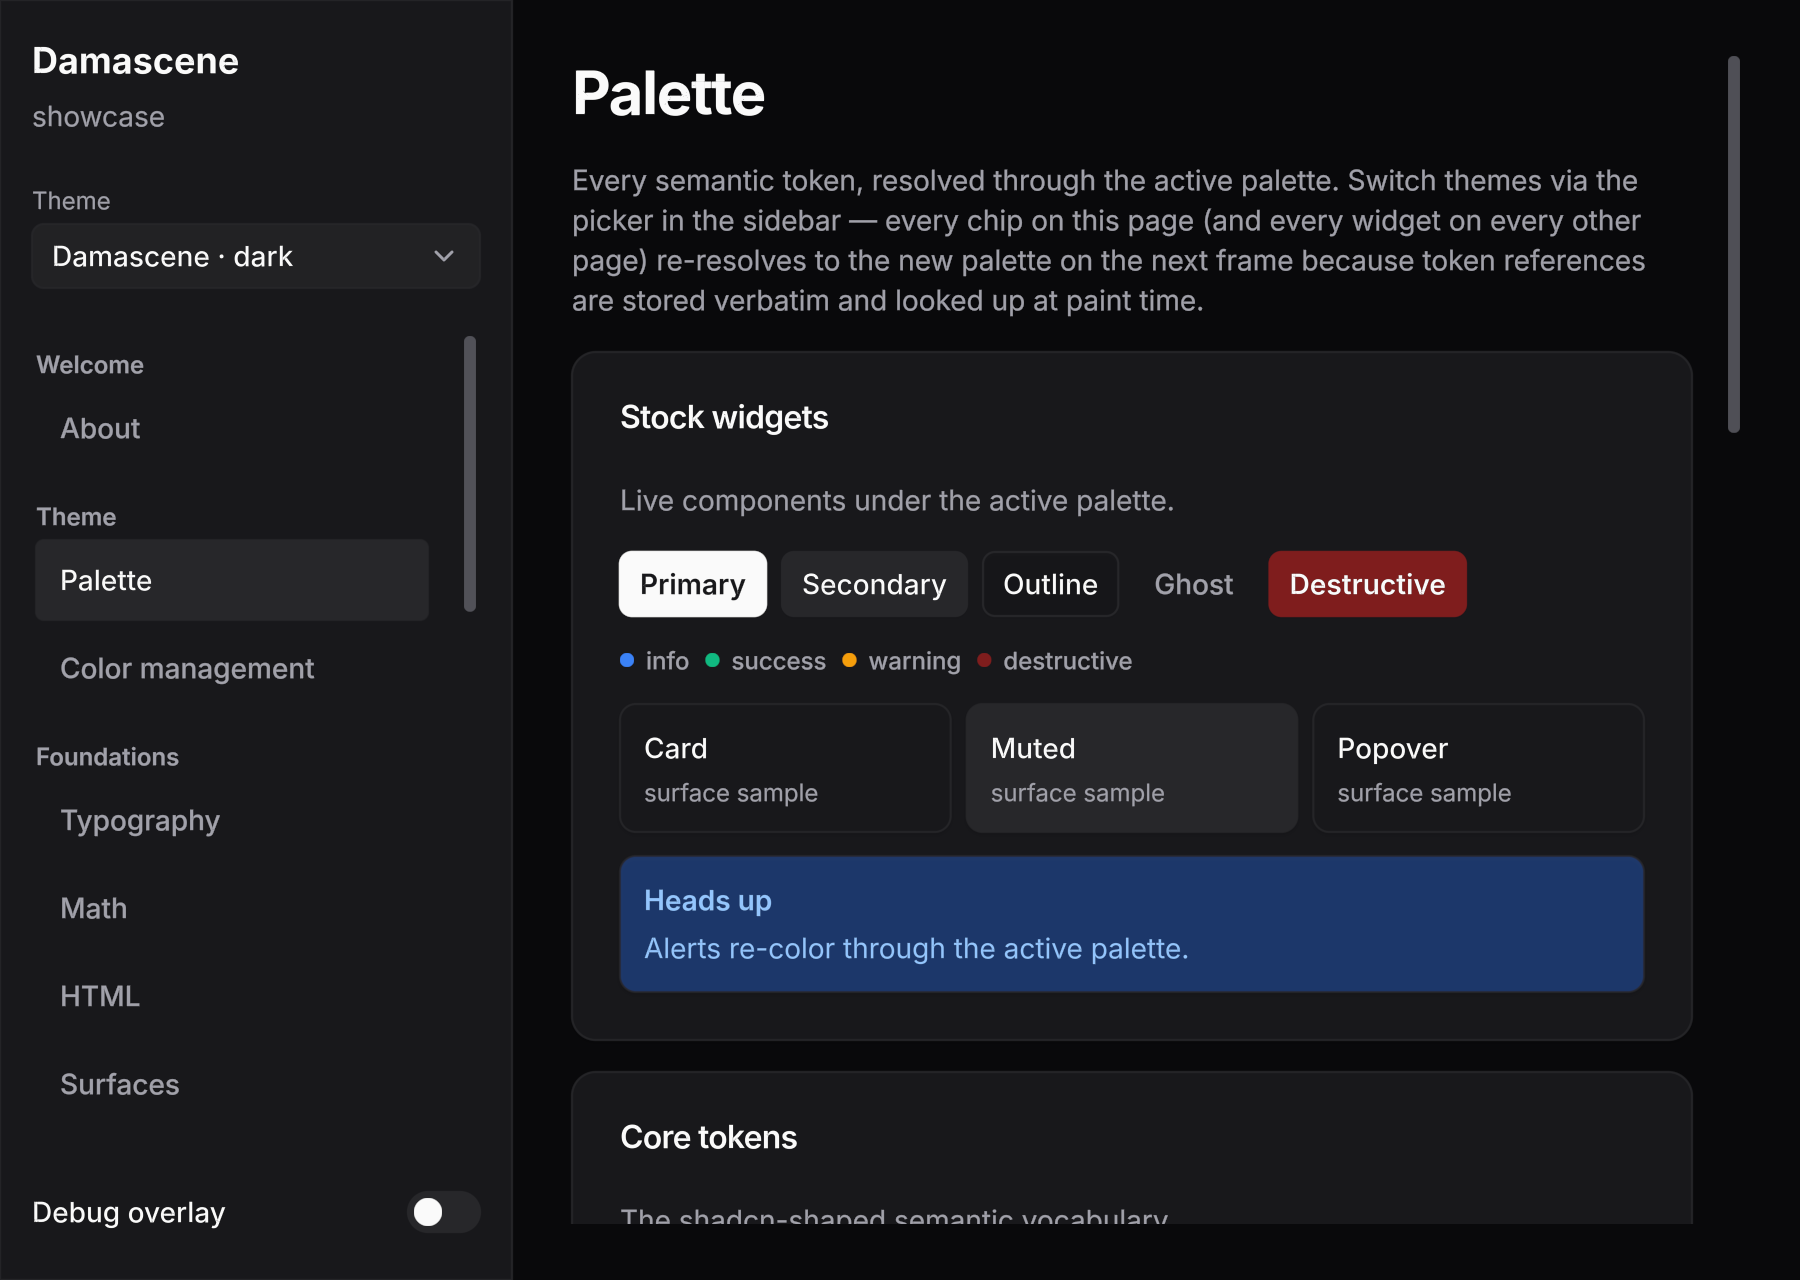
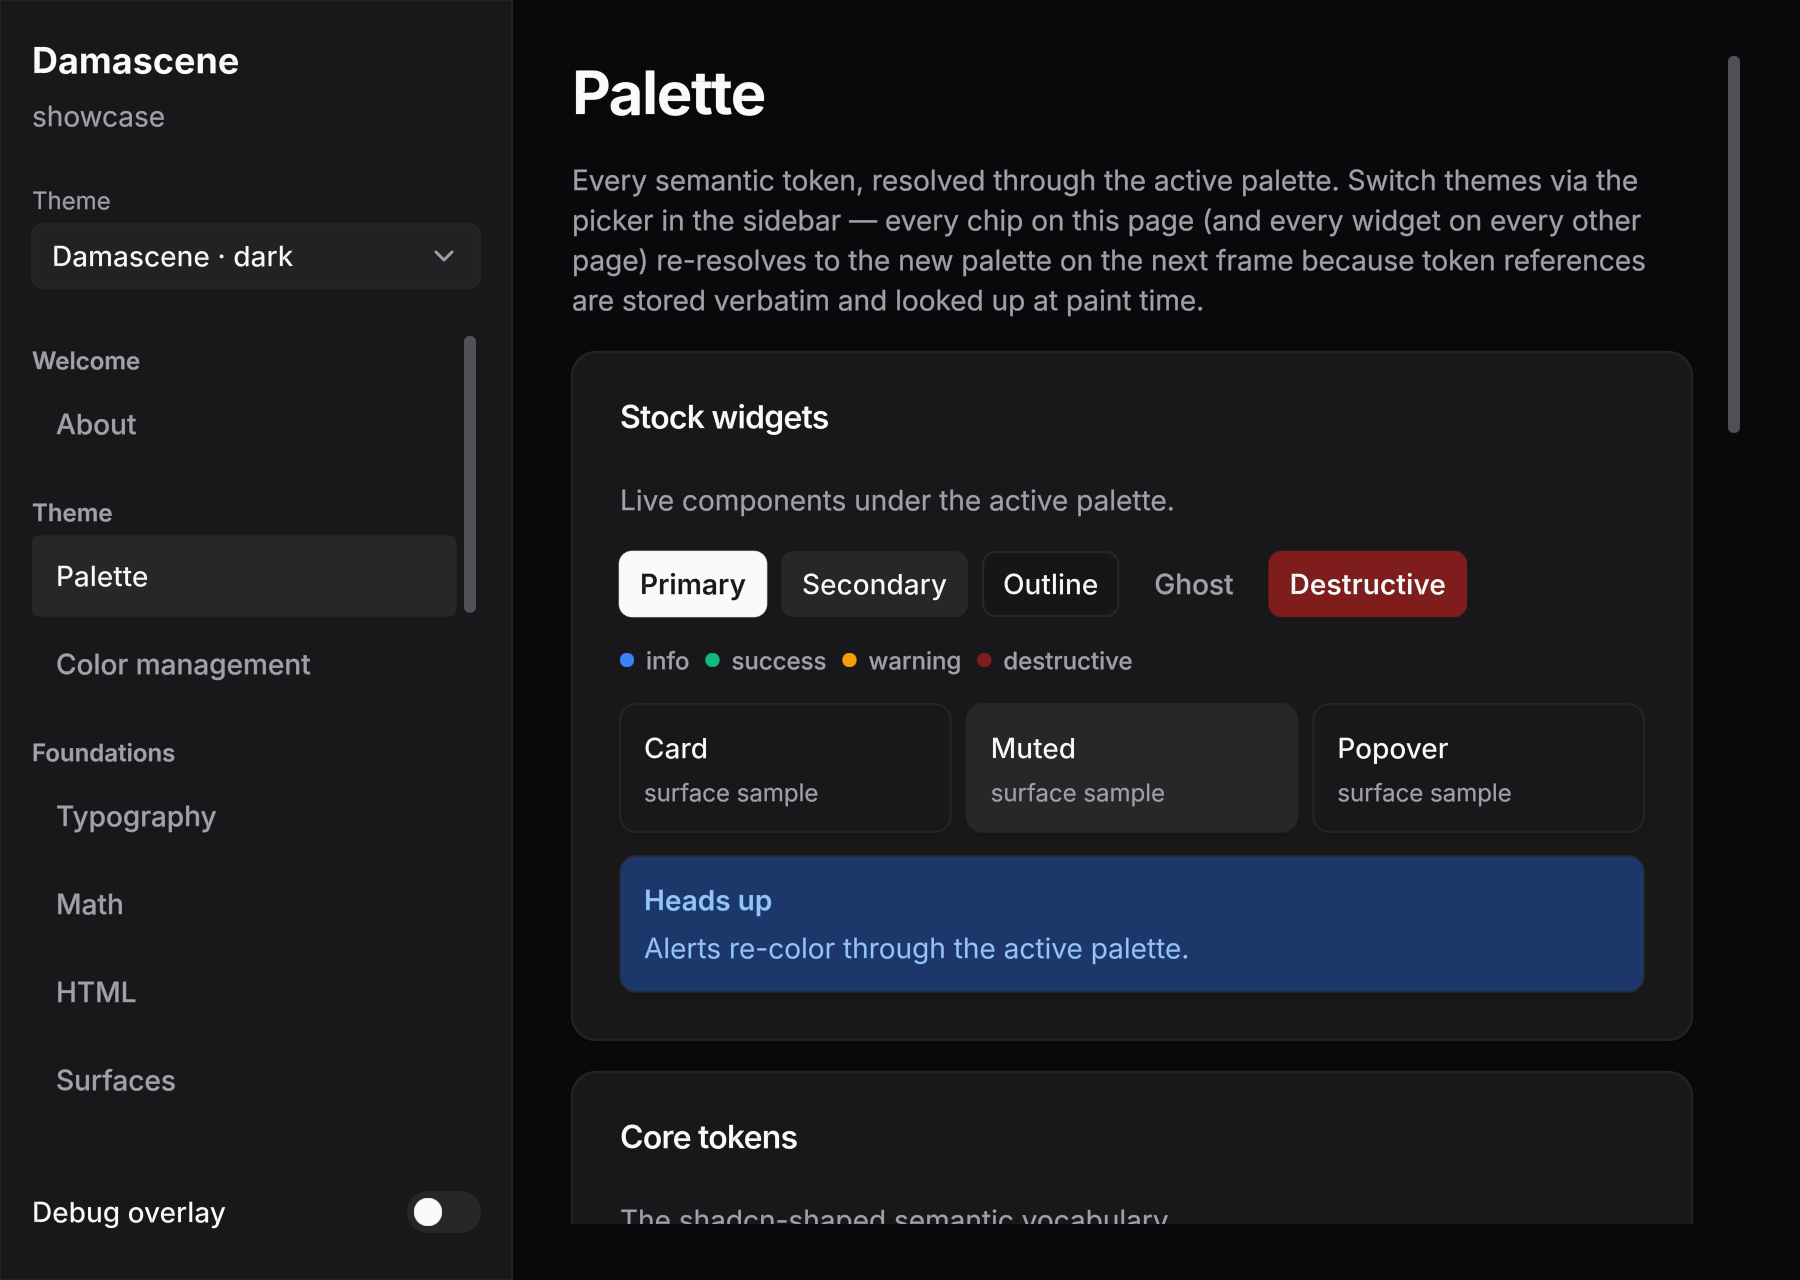
docs: round 2 rulings and what landed; the README showcase renders
The design record gains the 2026-11-11 rulings with chose-because and
rejected-because, the Hug audit, the correction that the hero is not a
flush shell, what was looked at and left (#153 does not reproduce in
the renderer; the password-field clipboard gap), and the additions to
the 0.9.0 breaking list.

The three README section renders are regenerated: the showcase rail's
group labels and rows now share the header's left edge. The hero
re-rendered pixel-identical.

diff --git a/docs/POLISH_REVIEW_2026_10.md b/docs/POLISH_REVIEW_2026_10.md
@@ -841,3 +841,106 @@ review scaffold in a bin crate, `.selected()` on `item`, the icon name
 list, and the shells — which is the composition question: whether the
 canonical workbench stays `page + sidebar card + card` or becomes the
 flush shell the hero uses.
+
+### Round 2 rulings (2026-11-11)
+
+Ruled together, as assent to four recommendations: "hug vs stretch:
+yes, shell: yes, destructive: yes, El::icon_name: yes. Let's proceed
+with the order you outlined." They are checkpoints rather than argued
+rulings, and cheap to reopen. Each item is its own gated commit
+(`385f2d4` through `aa7f772`).
+
+**A written `Hug` is fit-content.** `Align::Stretch` stretched `Hug`
+and `Fill` alike, so `.width(Size::Hug)` on a column's child did
+nothing. It now passes over a `Hug` the author wrote (the existing
+`explicit_width` / `explicit_height` flags): content size, capped at
+the container, at the start of the cross axis. An unset `Hug` and
+`Fill` stretch as before, on both axes. Chose-because: it is CSS's
+rule (stretch applies to an auto cross size), the flags already record
+the distinction, and one modifier answers "this control should not
+span the column". Rejected-because: a `Size::Auto` variant would say
+the same thing with a public enum change and a new default to teach;
+a width-only rule would leave `.height(Size::Hug)` meaning nothing in
+a row.
+
+The rule could not land alone. The constructors restated `Hug` freely
+while it meant nothing — `text()` and the headings called `.hug()`,
+and some 150 sites said `.height(Size::Hug)` — so applied naively
+every text leaf would have stopped spanning its column and bare panes
+in a row would have stopped matching heights. The audit separated the
+two meanings: `text` / `h1`–`h3` / `paragraph` and 82 block-container
+sites drop the restatement and are auto; content-sized controls keep
+theirs and now hold their width in a column (`toggle_group`,
+`button_group`, `badge`, `kbd`, `calendar`, `menubar`, `breadcrumb`,
+`pagination`, the floating panels); table cells take
+`.height(Size::Fill(1.0))`, because the content El is the cell and may
+bring a rung height (a badge's) that the explicit size has to replace
+while the cell still spans its row. Measured on the showcase's layout
+trees, before against after: 32 nodes move in 6 of 48 scenes. The two
+visible ones are the calendar and the menubar, which now hug.
+
+**The workbench shell is full-bleed.** The crate README's two
+workbench skeletons are `overlays(row([sidebar, column, sidebar]),
+layers)` — panes edge to edge, each with its own padding, the
+inspector a right-hand `sidebar` of `section()` regions — and `page()`
+is described as the single-pane screen. `tests/readme_shells.rs`
+builds both through the prelude and holds them to a clean lint report
+and flush geometry. Chose-because: both blind builds copied the README
+skeleton to the letter, so the skeleton is where the dashboard shape
+came from.
+
+A correction to the round-2 gap list above, which called this "the
+flush shell the hero uses": the hero does not use it. Its root is
+`row([nav_rail(), main_panel(), inspector()]).gap(SPACE_4)
+.padding(SPACE_4)` — three floating panels on a margin, the
+composition the README now warns against. The flush shell in the
+repository is the showcase's and the workbench examples'. Whether the
+hero is recomposed, and whether `sidebar()` grows shadcn's variants
+(flush with one inner border by default, `floating` as the opt-in)
+instead of stroking all four sides, are open and are the user's.
+
+**A status on a menu row colours the label.** `menu_item("Delete")
+.destructive()` filled the row solid red. A row with
+`MetricsRole::MenuItem` now takes a status as the colour of its label
+and glyph; a muted shortcut hint stays muted. Hover stays the neutral
+row hover (shadcn tints it `destructive/10`; not done).
+
+**`El::icon_name` is removed.** No caller in the repository or in the
+workspace's dependents.
+
+**Without a ruling, because they were defects.**
+`text_input::apply_event` and `text_area::apply_event` handle only
+events routed to their key (they gated pointer events and folded every
+key and text event; a key pressed with nothing focused moved every
+caret), and `UiEvent::synthetic_text_input` joins the synthetic
+constructors. `sidebar_menu_button` and `sidebar_group_action` draw
+their focus ring inside — the stacked-row recipe — instead of the slot
+gaining a 2 px inset that would misalign it with the header and still
+clip under the recommended `scroll`. The three text examples lose
+their own clipboard layers. The five doc defects are fixed.
+`CollapsedFillChild` also reports a spacer in an unstretched hug
+container (#151's second shape). html5ever is at 0.40.
+
+**Looked at and left.** #153 (a translucent fill lightening an app
+surface under HDR) does not reproduce in the renderer, at the reported
+commit or at main, on SDR or float targets: the fills darken by
+exactly `1 − alpha` and the frame's alpha is 1.0 throughout. The
+measurements are on the issue; it stays open as an observation of the
+live output. A password field's Ctrl+C copies the bullets the field
+shows (never the value) and its Ctrl+X deletes the selection, because
+the host's clipboard bridge does not know the field is masked — a
+browser does neither. `accesskit_ios` 0.2.2 still pins objc2 0.5 and
+`fdsm` still pins nalgebra 0.34.
+
+**Added to the 0.9.0 breaking list.** Layout: a written `Hug` no
+longer stretches (visible: `menubar`, `calendar`, a boxed `badge`,
+`kbd`, `toggle_group`, `button_group` in a column; any app node with
+an explicit `Hug` on a stretching parent's cross axis). `text_input` /
+`text_area` `apply_event` ignore unrouted events. Sidebar rows: inside
+focus ring. Menu rows: status as text colour. `El::icon_name` gone.
+`CollapsedFillChild` fires on dead spacers.
+
+**Still open.** The hero's composition and the `sidebar()` variants
+(above); a `rating` widget (asked for by both blind-build agents);
+`form()` with implicit submission; a mask-aware clipboard bridge; the
+bottom navigation bar (#152).
